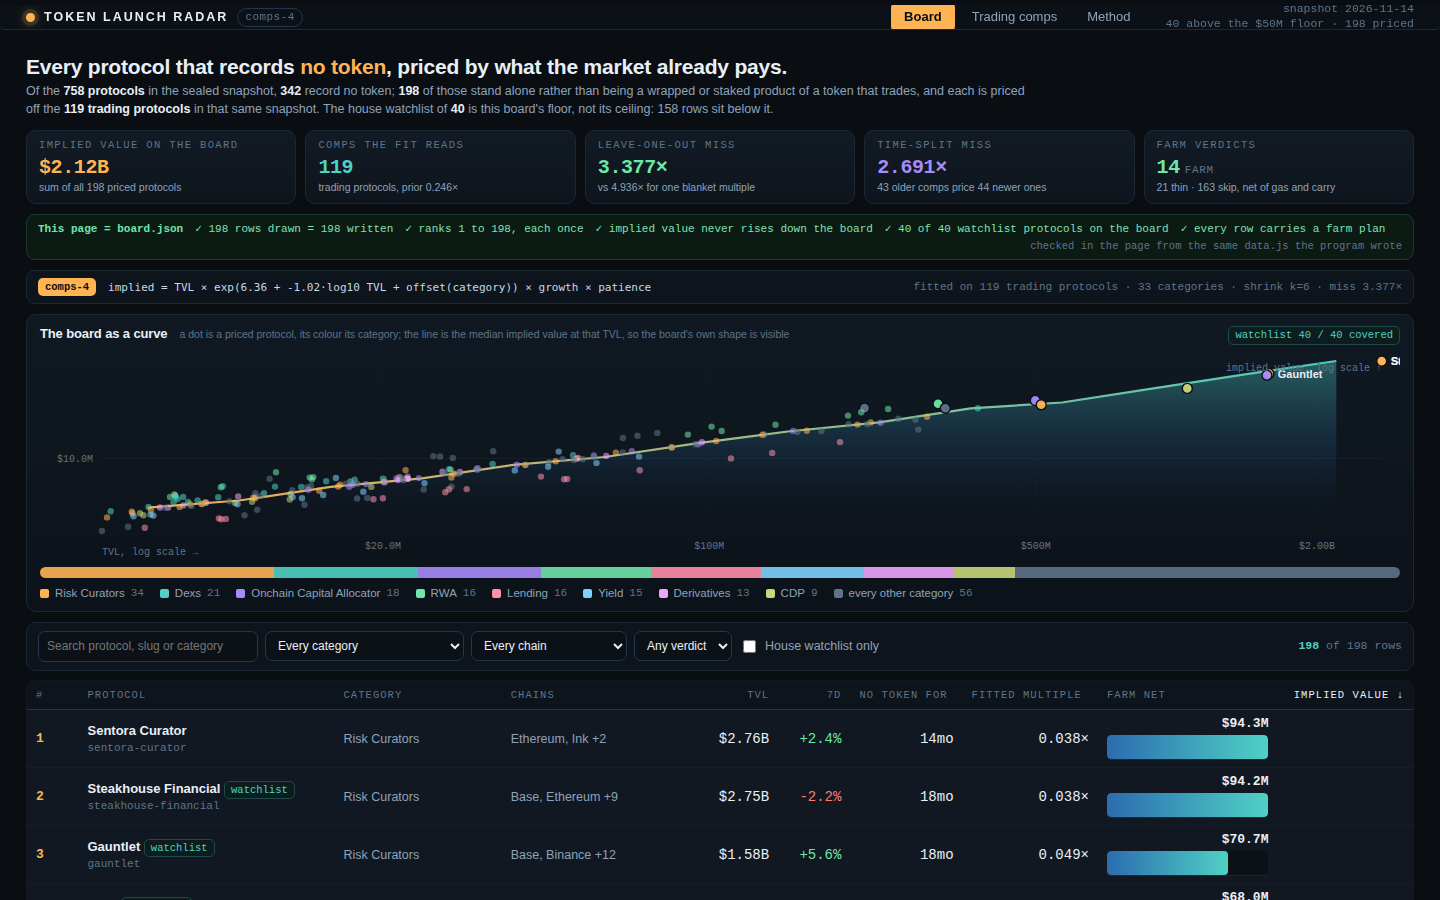
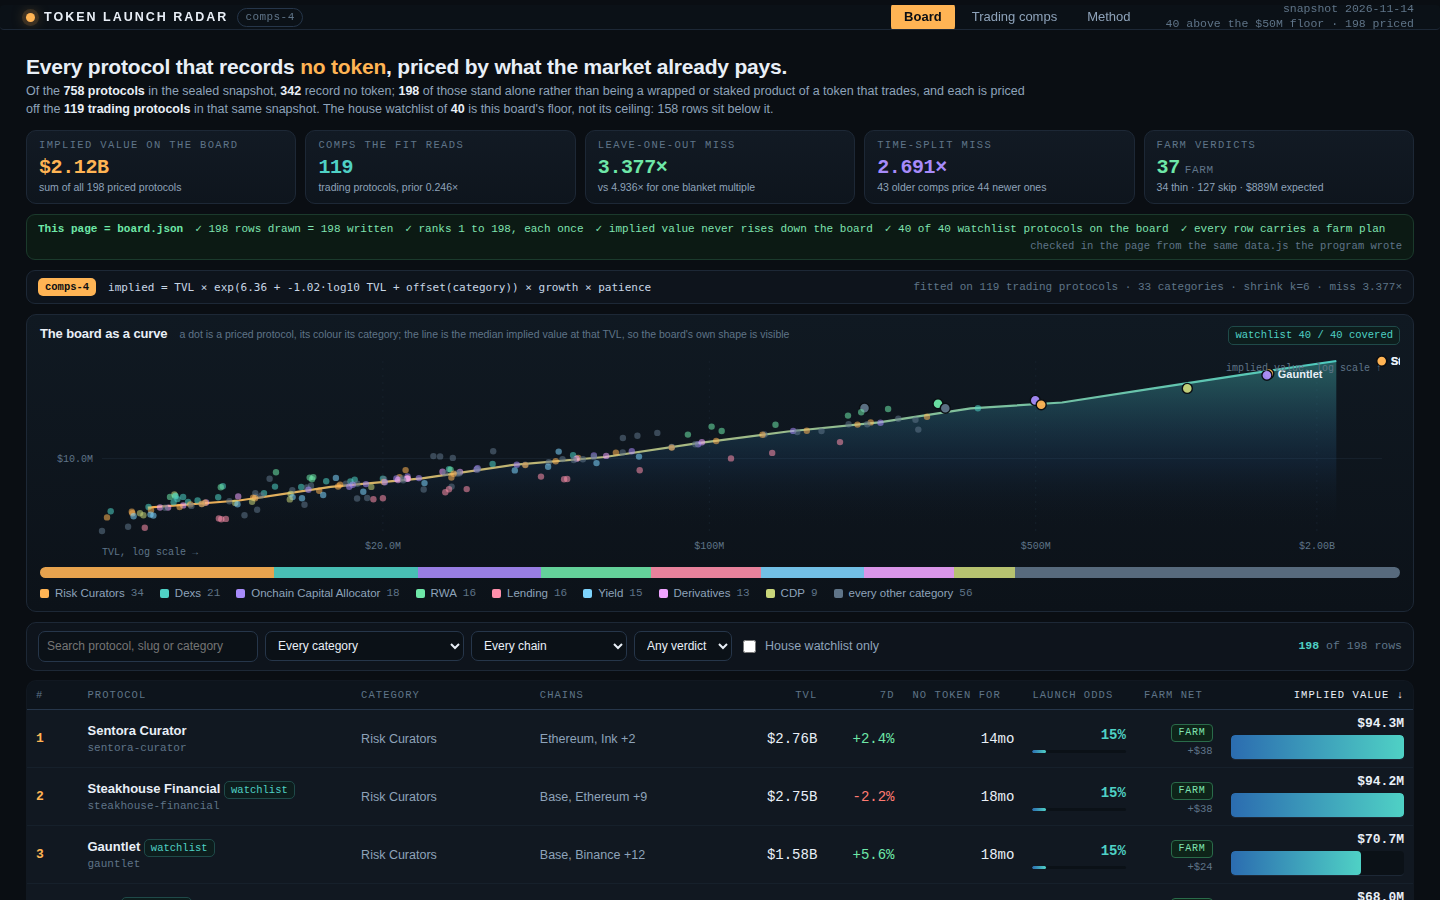
comps-5: launch odds from the category token base rate, expected value and verdicts on it, column alignment fixed

diff --git a/dashboard/app.js b/dashboard/app.js
@@ -143,8 +143,8 @@
       return true;
     }).sort(function (a, b) {
       var k = state.sort, d = state.dir;
-      var av = k === 'name' ? a.name : k === 'tvl' ? a.tvl_usd : k === 'chg' ? (a.change_7d === null ? -1e9 : a.change_7d) : k === 'age' ? (a.age_days === null ? -1 : a.age_days) : k === 'mult' ? a.multiple : k === 'rank' ? a.rank : a.implied_value_usd;
-      var bv = k === 'name' ? b.name : k === 'tvl' ? b.tvl_usd : k === 'chg' ? (b.change_7d === null ? -1e9 : b.change_7d) : k === 'age' ? (b.age_days === null ? -1 : b.age_days) : k === 'mult' ? b.multiple : k === 'rank' ? b.rank : b.implied_value_usd;
+      var av = k === 'name' ? a.name : k === 'tvl' ? a.tvl_usd : k === 'chg' ? (a.change_7d === null ? -1e9 : a.change_7d) : k === 'age' ? (a.age_days === null ? -1 : a.age_days) : k === 'odds' ? a.launch_odds : k === 'mult' ? a.multiple : k === 'rank' ? a.rank : a.implied_value_usd;
+      var bv = k === 'name' ? b.name : k === 'tvl' ? b.tvl_usd : k === 'chg' ? (b.change_7d === null ? -1e9 : b.change_7d) : k === 'age' ? (b.age_days === null ? -1 : b.age_days) : k === 'odds' ? b.launch_odds : k === 'mult' ? b.multiple : k === 'rank' ? b.rank : b.implied_value_usd;
       if (av === bv) return a.rank - b.rank;
       return (av > bv ? 1 : -1) * d;
     });
@@ -153,7 +153,7 @@
   function boardHead() {
     var h = [
       ['rank', '#'], ['name', 'Protocol'], ['cat', 'Category'], ['chain', 'Chains'], ['tvl', 'TVL'],
-      ['chg', '7d'], ['age', 'No token for'], ['mult', 'Fitted multiple'], ['verdict', 'Farm net'], ['implied', 'Implied value']
+      ['chg', '7d'], ['age', 'No token for'], ['odds', 'Launch odds'], ['verdict', 'Farm net'], ['implied', 'Implied value']
     ];
     return h.map(function (c) {
       var on = state.sort === c[0] ? ' style="color:#e9eff7"' : '';
@@ -203,7 +203,7 @@
         '<div class="stat cyan"><div class="k">Comps the fit reads</div><div class="v">' + fit.prior_comps + '</div><div class="s">trading protocols, prior ' + x(fit.prior_multiple) + '</div></div>' +
         '<div class="stat green"><div class="k">Leave-one-out miss</div><div class="v">' + x(chk.model_median_miss) + '</div><div class="s">vs ' + x(chk.blanket_median_miss) + ' for one blanket multiple</div></div>' +
         '<div class="stat violet"><div class="k">Time-split miss</div><div class="v">' + x(ts.combined_miss) + '</div><div class="s">' + ts.old_n + ' older comps price ' + ts.new_n + ' newer ones</div></div>' +
-        '<div class="stat farmc"><div class="k">Farm verdicts</div><div class="v">' + D.farm_counts.farm + '<em>farm</em></div><div class="s">' + D.farm_counts.thin + ' thin · ' + D.farm_counts.skip + ' skip, net of gas and carry</div></div>' +
+        '<div class="stat farmc"><div class="k">Farm verdicts</div><div class="v">' + D.farm_counts.farm + '<em>farm</em></div><div class="s">' + D.farm_counts.thin + ' thin · ' + D.farm_counts.skip + ' skip · ' + usd(D.expected_total_usd) + ' expected</div></div>' +
       '</div>' +
       verificationStrip() +
       '<div class="modelstrip"><span class="tag">' + D.model_version + '</span>' +
@@ -238,7 +238,8 @@
           '<td class="num">' + usd(r.tvl_usd) + '</td>' +
           '<td class="num">' + pct(r.change_7d) + '</td>' +
           '<td class="num">' + age(r.age_days) + '</td>' +
-          '<td class="num">' + x(r.multiple) + '</td>' +
+          '<td class="num odds">' + Math.round(r.launch_odds * 100) + '%<span class="odbar"><i style="width:' + Math.round(r.launch_odds * 100) + '%"></i></span></td>' +
+          '<td class="num vcell">' + verdictChip(r.farm_verdict) + '<span class="vnet">' + (r.farm_net_usd >= 0 ? '+' : '') + '$' + Math.round(r.farm_net_usd) + '</span></td>' +
           '<td class="num barcell"><div class="barval">' + usd(r.implied_value_usd) + '</div><div class="bar"><i style="width:' + w + '%"></i></div></td>' +
         '</tr>';
       }).join('') +
@@ -274,7 +275,8 @@
   function econTable(r) {
     var a = D.farm_assumptions;
     var rows2 = [
-      ['expected at launch', usd(r.farm_expected_usd), 'implied value × ' + a.capture + ', one wallet\'s share'],
+      ['expected at launch', usd(r.farm_expected_usd), 'implied ' + usd(r.implied_value_usd) + ' × ' + Math.round(r.launch_odds * 100) + '% odds × ' +
+        (a.airdrop_share * 100) + '% airdrop ÷ ' + a.wallets.toLocaleString('en-US') + ' wallets'],
       ['gas, set-up and exit', '-$' + (a.gas_setup + a.gas_exit), 'one deposit and one withdrawal'],
       ['carry on the deposit', '-$' + r.farm_carry_usd.toFixed(2), '$' + r.farm_capital_usd + ' at ' + (a.carry_apr * 100) + '% for ' + r.farm_days + ' days'],
     ];
@@ -308,11 +310,13 @@
       '<h3>The arithmetic</h3>' +
       '<div class="wf">' +
         '<div class="lab">TVL, from the snapshot</div><div class="val">' + usd(r.tvl_usd) + '</div>' +
-        '<div class="lab">Fitted multiple at this size' + (comps ? ' (' + esc(comps.category) + ', ' + comps.comps + ' comps)' : '') + '</div><div class="val">' + x(r.multiple) + '</div>' +
+        '<div class="lab">Fitted multiple at this size' + (comps ? ' (' + esc(comps.category) + ', ' + comps.comps + (comps.comps === 1 ? ' comp' : ' comps') + ')' : '') + '</div><div class="val">' + x(r.multiple) + '</div>' +
         '<div class="lab">size slope ' + fit.slope.toFixed(3) + ' per decade × category offset ' + (m.category_offset >= 0 ? '+' : '') + m.category_offset.toFixed(3) + '</div><div class="val">' + x(Math.exp(fit.intercept + fit.slope * Math.log10(r.tvl_usd) + m.category_offset)) + ' raw</div>' +
         '<div class="lab">7-day growth ' + (m.growth_pct >= 0 ? '+' : '') + m.growth_pct.toFixed(1) + '% → growth multiplier</div><div class="val">' + x(m.growth_multiplier) + '</div>' +
         '<div class="lab">patience: ' + age(m.age_days) + ' with no token → multiplier</div><div class="val">' + x(m.patience_multiplier) + '</div>' +
-        '<div class="lab tot">TVL × multiple × growth × patience</div><div class="val tot">' + usd(r.implied_value_usd) + '</div>' +
+        '<div class="lab">value if it launches</div><div class="val">' + usd(r.implied_value_usd) + '</div>' +
+        '<div class="lab">× launch odds (' + Math.round(r.launch_odds * 100) + '% of ' + esc(r.category || 'unclassified') + ' records a token)</div><div class="val">× ' + r.launch_odds.toFixed(2) + '</div>' +
+        '<div class="lab tot">expected value, before a wallet\'s share</div><div class="val tot">' + usd(r.expected_value_usd) + '</div>' +
       '</div>' +
       '<h3>Why this multiple</h3>' +
       '<div class="note">' + (comps && comps.comps >= 3
@@ -323,6 +327,15 @@
         ? 'Only <b>' + comps.comps + ' trading protocol' + (comps.comps === 1 ? '' : 's') + '</b> in the snapshot shares the <b>' + esc(comps.category) + '</b> category (median ' + x(comps.median_multiple) + '), which is too thin to move a price: the fit needs three comps before a category may shift the curve, so this row takes the market-wide size curve alone at <b>' + x(r.multiple) + '</b>.'
         : 'This protocol records no DefiLlama category, so it takes the market-wide size curve alone: <b>' + x(r.multiple) + '</b>.') +
         ' Nothing here is special-cased by name: every row runs the same function.</div>' +
+      '<h3>Why this launch odds</h3>' +
+      '<div class="note">' + (function () {
+        var co = (D.category_odds || []).filter(function (c) { return c.category === (r.category || 'unclassified'); })[0];
+        if (!co) return 'No category record, so the odds fall back to the market-wide 50%.';
+        return '<b>' + co.with_token + ' of the ' + co.total + '</b> protocols DefiLlama files under <b>' + esc(co.category) + '</b> in this snapshot already record a token — a base rate of <b>' +
+          Math.round(co.share * 100) + '%</b>, smoothed by one either way so a small category cannot claim certainty. ' +
+          'That is a cross-sectional prior, not a forecast: the snapshot carries no launch dates, so nothing here claims when a launch would come. ' +
+          'It answers a narrower question — how common a token is in the company this protocol keeps.';
+      })() + '</div>' +
       '<h3>The comps behind this multiple</h3>' +
       compsTable(r) +
       '<h3>What the farm is worth, net</h3>' +
@@ -430,17 +443,29 @@
         '<dt>combined</dt><dd>' + x(ts.combined_miss) + ', against ' + x(chk.model_median_miss) + ' leave-one-out</dd>' +
         '</dl>' +
         '<p class="small" style="margin-top:10px">Both directions are run so neither half of the history is privileged. The forward test is the honest one for a radar: it prices protocols from a curve that had never seen their period.</p></div>' +
+        '<div class="card" style="margin-top:16px"><h2>Launch odds: a base rate, not a forecast</h2>' +
+        '<p>Value if it launches is half the question. The other half is whether it launches, and the snapshot answers a narrower version of it: how often a token exists in the company a protocol keeps.</p>' +
+        '<table class="mini"><thead><tr><th>Category</th><th class="num">With token</th><th class="num">Total</th><th class="num">Base rate</th></tr></thead><tbody>' +
+        (D.category_odds || []).slice(0, 9).map(function (c) {
+          return '<tr><td class="cat">' + esc(c.category) + '</td><td class="num">' + c.with_token + '</td><td class="num">' + c.total +
+            '</td><td class="num">' + Math.round(c.share * 100) + '%</td></tr>';
+        }).join('') +
+        '</tbody></table>' +
+        '<p class="small" style="margin-top:10px">Laplace-smoothed as <code>(with + 1) / (total + 2)</code> so a three-protocol category cannot claim certainty.</p>' +
+        '<div class="note" style="margin-top:10px"><b>What this is not.</b> It is not a hazard and it is not a date. The snapshot records no launch dates, so a time-to-launch model cannot be estimated from it — and it is not invented here. A test on the data settled the point: token-bearing protocols are <b>older</b> in DefiLlama\'s record than pre-token ones in 17 of 20 categories, because <code>listed_at</code> is when tracking began, not when a token appeared. An age term would have read that confound as signal, so the model carries none.</div></div>' +
         '<div class="card" style="margin-top:16px"><h2>What the farm economics assume</h2>' +
         '<p>A verdict is worth nothing if its assumptions are hidden, so they are on the page:</p>' +
         '<dl class="kv">' +
-        '<dt>capture</dt><dd>' + D.farm_assumptions.capture + ' of the implied value, one farmed wallet\'s share</dd>' +
+        '<dt>odds</dt><dd>the category base rate above, applied to the implied value</dd>' +
+        '<dt>airdrop share</dt><dd>' + (D.farm_assumptions.airdrop_share * 100) + '% of the launch value goes to users</dd>' +
+        '<dt>wallets</dt><dd>' + D.farm_assumptions.wallets.toLocaleString('en-US') + ' qualifying wallets share it, so one wallet gets ' +
+          (D.farm_assumptions.airdrop_share / D.farm_assumptions.wallets).toExponential(1) + ' of the value</dd>' +
         '<dt>gas</dt><dd>$' + D.farm_assumptions.gas_setup + ' in, $' + D.farm_assumptions.gas_exit + ' out</dd>' +
         '<dt>carry</dt><dd>' + (D.farm_assumptions.carry_apr * 100) + '% a year on the deposit, the yield it gives up</dd>' +
-        '<dt>farm</dt><dd>net of at least $' + D.farm_assumptions.min_net + ' for one wallet</dd>' +
-        '<dt>thin</dt><dd>net between $0 and $' + D.farm_assumptions.min_net + '</dd>' +
-        '<dt>skip</dt><dd>the plan costs more than it expects: ' + D.farm_counts.skip + ' of ' + D.board_size + ' rows</dd>' +
+        '<dt>farm / thin / skip</dt><dd>net above $' + D.farm_assumptions.min_net + ', between $0 and it, below zero — ' +
+          D.farm_counts.farm + ' / ' + D.farm_counts.thin + ' / ' + D.farm_counts.skip + ' rows here</dd>' +
         '</dl>' +
-        '<p class="small" style="margin-top:10px">Change the capture and the verdicts move; that is the point of stating it. A reader who thinks one wallet captures a tenth of this gets ' + D.farm_counts.farm + ' farm rows; one who thinks it captures ten times more gets more.</p></div>' +
+        '<p class="small" style="margin-top:10px">Every one of those is a number a reader can disagree with and change: halve the wallet count and the farm list grows, double it and most rows go quiet. The verdict is the arithmetic, not a slogan.</p></div>' +
         '<div class="card" style="margin-top:16px"><h2>What the fit pays by category</h2>' +
         '<table><thead><tr><th>Category</th><th class="num">Comps</th><th class="num">Median</th><th class="num">At $100M TVL</th></tr></thead><tbody>' +
         cats5.map(function (c) { return '<tr><td class="cat">' + esc(c.category) + '</td><td class="num">' + c.comps + '</td><td class="num">' + x(c.median_multiple) + '</td><td class="num">' + x(c.multiple_at_100m) + '</td></tr>'; }).join('') +

diff --git a/lib/model.ts b/lib/model.ts
@@ -78,14 +78,19 @@ export const MODEL_VERSION = 'comps-4';
 
 /**
  * The farm economics, stated so a reader can disagree with any of them:
- *   expected  = implied value × CAPTURE       one farmed wallet's share of a launch that size
- *   carry     = deposit × CARRY_APR × days/365  what the deposit would have earned elsewhere
+ *   odds      = the category's own base rate: the share of that category in this snapshot that
+ *               already records a token. A cross-sectional base rate, not a hazard: the snapshot
+ *               carries no launch dates, so a time-to-launch model cannot be estimated from it
+ *               and is not claimed here.
+ *   expected  = implied value × odds × AIRDROP_SHARE / WALLETS
+ *   carry     = deposit × CARRY_APR × days/365      what the deposit would have earned elsewhere
  *   cost      = GAS_SETUP + GAS_EXIT + carry
  *   net       = expected - cost
- * A plan is worth doing when net clears FARM_MIN_NET; below zero it is a skip.
+ * A plan is worth doing when net clears MIN_NET; between zero and that it is thin; below zero, skip.
  */
 export const FARM = {
-  capture: 1e-6,
+  airdrop_share: 0.08,
+  wallets: 20_000,
   carry_apr: 0.06,
   gas_setup: 12,
   gas_exit: 3,
@@ -181,6 +186,10 @@ export interface BoardRow {
   farm_days: number;
   /** The verdict the numbers give: is one farmed wallet worth its cost, net of gas and carry? */
   farm_verdict: 'farm' | 'thin' | 'skip';
+  /** The category's own token base rate in this snapshot, and the expected value it discounts to. */
+  launch_odds: number;
+  category_token_share: number;
+  expected_value_usd: number;
   farm_capital_usd: number;
   farm_expected_usd: number;
   farm_carry_usd: number;
@@ -231,8 +240,10 @@ export interface RadarData {
   protocols_total: number;
   live_size: number;
   implied_total_usd: number;
+  expected_total_usd: number;
   farm_counts: { farm: number; thin: number; skip: number };
   farm_assumptions: typeof FARM;
+  category_odds: { category: string; with_token: number; total: number; share: number }[];
   rows: BoardRow[];
   live: LiveRow[];
   comps: CompRow[];
@@ -619,15 +630,46 @@ export function stepText(step: FarmStep): string {
   return s;
 }
 
+/**
+ * The category's own token base rate: of the protocols in this snapshot that DefiLlama puts in this
+ * category, what share already records a token. It is a cross-sectional prior, read straight off the
+ * data, and it is deliberately not dressed up as a hazard: the snapshot carries no launch dates, so
+ * nothing here can say when a launch would happen, only how common a token is in the company a
+ * protocol keeps.
+ */
+export function categoryTokenShare(protocols: SnapshotProtocol[]): Map<string, { share: number; withToken: number; total: number }> {
+  const acc = new Map<string, { withToken: number; total: number }>();
+  for (const p of protocols) {
+    if (p.category === 'CEX') continue;
+    const key = p.category ?? 'unclassified';
+    const cur = acc.get(key) ?? { withToken: 0, total: 0 };
+    cur.total += 1;
+    if (!isPreToken(p)) cur.withToken += 1;
+    acc.set(key, cur);
+  }
+  const out = new Map<string, { share: number; withToken: number; total: number }>();
+  for (const [key, v] of acc) {
+    // Laplace-smoothed, so a category with two protocols cannot claim a 0% or 100% rate.
+    const share = (v.withToken + 1) / (v.total + 2);
+    out.set(key, { share, withToken: v.withToken, total: v.total });
+  }
+  return out;
+}
+
 /** The board: every pre-token protocol the snapshot records, strongest implied value first. */
 export function buildBoard(snapshot: Snapshot, fit: Fit): BoardRow[] {
   const watch = new Set(snapshot.watchlist);
   const band = Math.exp(fit.check.model_median_miss);
+  const shares = categoryTokenShare(snapshot.protocols);
+  const perWallet = FARM.airdrop_share / FARM.wallets;
   const scored = snapshot.protocols.filter(isRankable).map((p) => ({ p, v: impliedValue(p, snapshot.as_of, fit) }));
   scored.sort((a, b) => b.v.implied - a.v.implied || (a.p.slug < b.p.slug ? -1 : a.p.slug > b.p.slug ? 1 : 0));
   return scored.map((s, i) => {
     const plan = farmSteps(s.p, s.v.age);
-    const expected = s.v.implied * FARM.capture;
+    const cat = shares.get(s.p.category ?? 'unclassified') ?? { share: 0.5, withToken: 0, total: 0 };
+    const odds = Math.min(0.95, Math.max(0.02, cat.share));
+    const expectedValue = s.v.implied * odds;
+    const expected = expectedValue * perWallet;
     const carry = plan.capital * FARM.carry_apr * (plan.days / 365);
     const totalCost = FARM.gas_setup + FARM.gas_exit + carry;
     const net = expected - totalCost;
@@ -663,12 +705,15 @@ export function buildBoard(snapshot: Snapshot, fit: Fit): BoardRow[] {
       farm_cost_usd: plan.capital,
       farm_days: plan.days,
       farm_verdict: verdict,
+      launch_odds: round4(odds),
+      category_token_share: round4(cat.share),
+      expected_value_usd: Math.round(expectedValue),
       farm_capital_usd: plan.capital,
       farm_expected_usd: round4(expected),
       farm_carry_usd: round4(carry),
       farm_total_cost_usd: round4(totalCost),
       farm_net_usd: round4(net),
-      farm_breakeven_usd: Math.round(totalCost / FARM.capture),
+      farm_breakeven_usd: Math.round(totalCost / perWallet),
       implied_low_usd: Math.max(1, Math.round(s.v.implied / band)),
       implied_high_usd: Math.round(s.v.implied * band),
     };
@@ -722,12 +767,16 @@ export function buildRadar(snapshot: Snapshot, model: ModelConstants = MODEL): {
     protocols_total: snapshot.protocols.length,
     live_size: live.length,
     implied_total_usd: board.reduce((a, r) => a + r.implied_value_usd, 0),
+    expected_total_usd: board.reduce((a, r) => a + r.expected_value_usd, 0),
     farm_counts: {
       farm: board.filter((r) => r.farm_verdict === 'farm').length,
       thin: board.filter((r) => r.farm_verdict === 'thin').length,
       skip: board.filter((r) => r.farm_verdict === 'skip').length,
     },
     farm_assumptions: FARM,
+    category_odds: [...categoryTokenShare(snapshot.protocols).entries()]
+      .map(([category, v]) => ({ category, with_token: v.withToken, total: v.total, share: round4(v.share) }))
+      .sort((a, b) => b.total - a.total || (a.category < b.category ? -1 : 1)),
     rows: board,
     live,
     comps,

diff --git a/dashboard/app.css b/dashboard/app.css
@@ -165,3 +165,8 @@ input[type=search]{min-width:220px}
 thead th{padding:9px 9px}
 td{padding:7px 9px}
 .nm{font-size:13px}
+
+/* launch odds: a number with its bar, and the detail-view odds line */
+td.odds{color:var(--cyan);font-weight:600}
+.odbar{display:block;height:3px;background:#0b1117;border-radius:2px;margin-top:4px;overflow:hidden}
+.odbar i{display:block;height:100%;background:linear-gradient(90deg,#2b6cb0,var(--cyan));border-radius:2px}

diff --git a/README.md b/README.md
@@ -41,11 +41,21 @@ would it be worth?* Nothing is hardcoded by name and no multiple is a constant.
 
 **Farm verdicts, with the assumptions stated**
 
-`expected = implied × 0.000001` (one wallet's share), minus gas ($12 in, $3 out) and carry (6% a year
-on the deposit). 14 rows clear $10 net and read **farm**; 21 land between $0 and $10 (**thin**); 163
-cost more than they expect (**skip**). Every row also shows the implied value at which its plan breaks
-even, so the margin is visible rather than asserted. Those numbers ship in `data.js` and are shown on
-the page, because a radar that hides its own error is a horoscope.
+Value if it launches is half the question; the other half is whether it launches. The radar prices that
+too, as a **category base rate**: the share of that category in this snapshot that already records a
+token, Laplace-smoothed. Risk Curators sits at 15%, Dexs at 74%, Lending at 79%.
+
+That is a cross-sectional prior and it is labelled as one, not a forecast: the snapshot carries no
+launch dates, so a time-to-launch model cannot be estimated from it. A test on the data settled that
+question — token-bearing protocols are *older* in DefiLlama's record than pre-token ones in 17 of 20
+categories, because `listed_at` is when tracking began, not when a token appeared, so an age term would
+read that confound as signal. The model carries none.
+
+`expected = implied × odds × 0.08 airdrop ÷ 20,000 wallets`, minus gas ($12 in, $3 out) and carry (6% a
+year on the deposit). 37 rows clear $10 net and read **farm**; 34 land between $0 and $10 (**thin**);
+127 cost more than they expect (**skip**). Every row also shows the implied value at which its plan
+breaks even, so the margin is visible rather than asserted. Those numbers ship in `data.js` and are
+shown on the page, because a radar that hides its own error is a horoscope.
 
 ## What it writes
 
